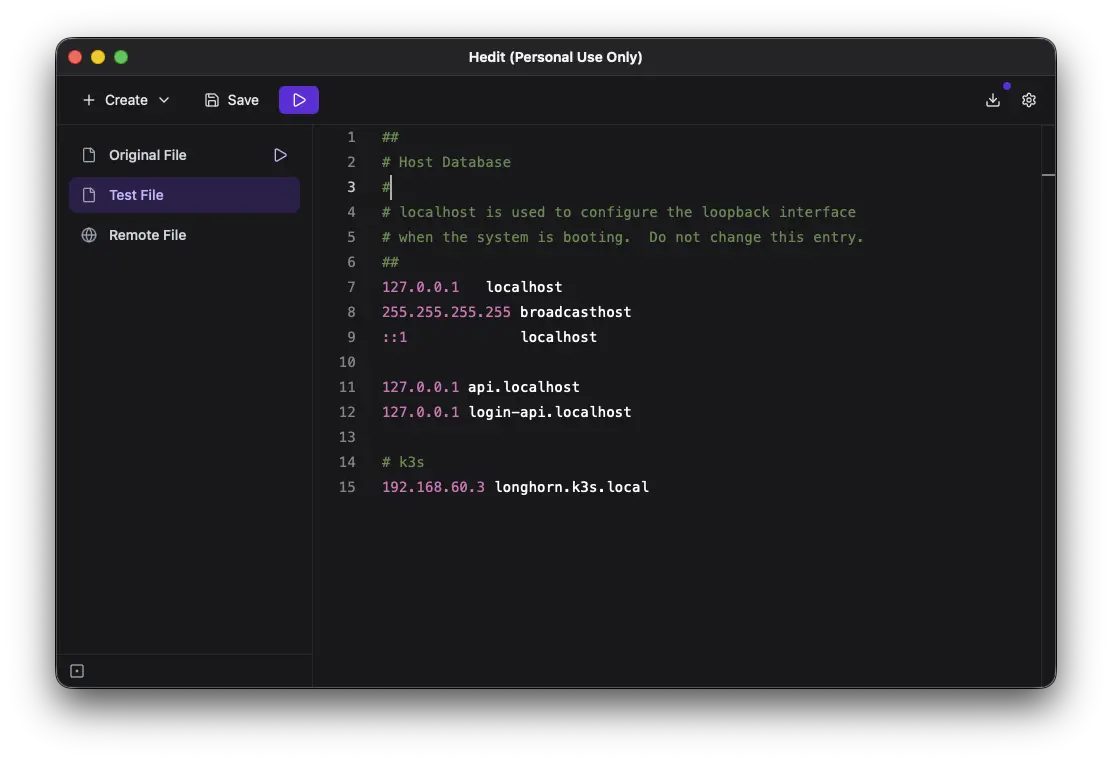
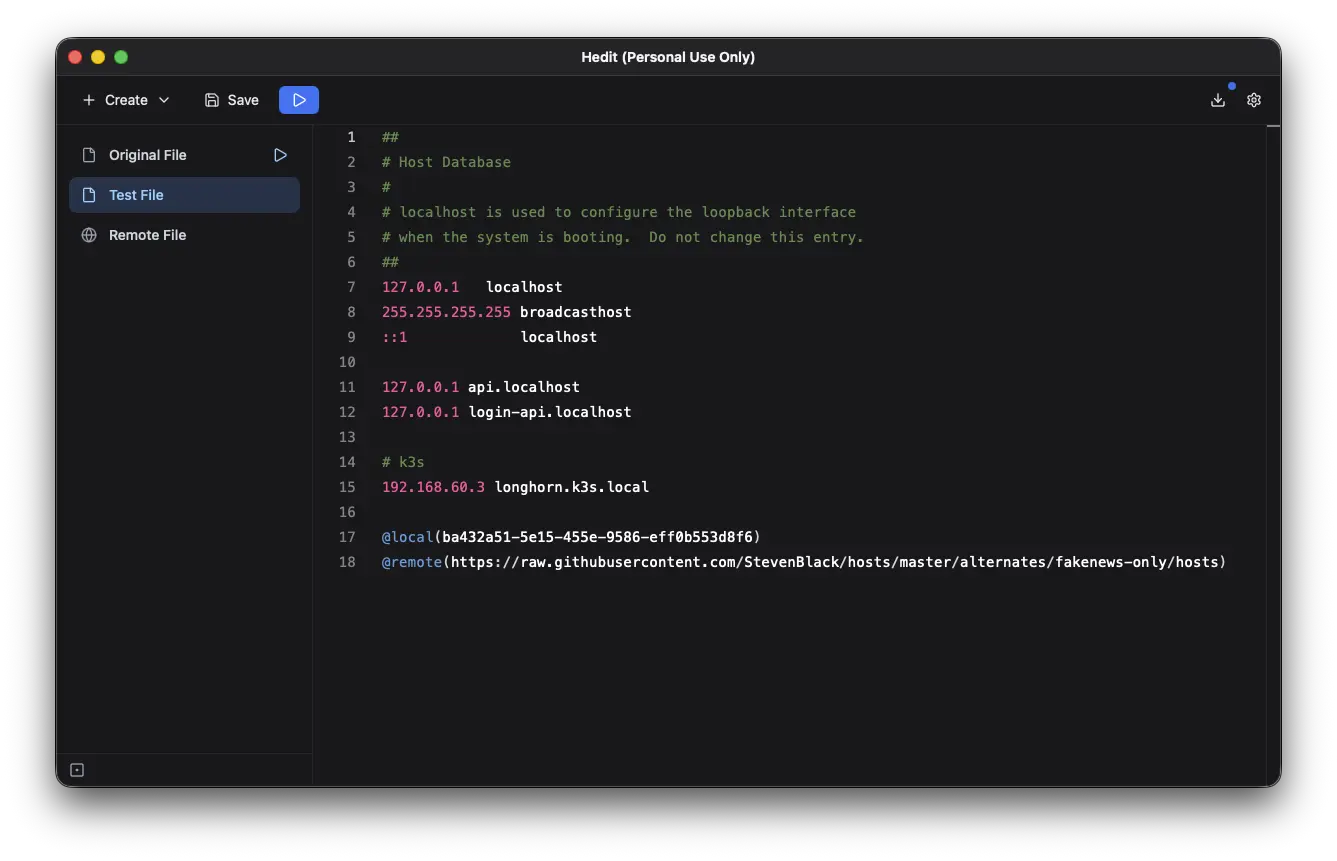
feat: add more docs

Changed region(s): [[0.0306, 0.0302, 0.9784, 0.9659], [0.2446, 0.6037, 0.9173, 0.664], [0.2446, 0.4829, 0.2752, 0.5131]]

diff --git a/app/pages/docs/[...slug].vue b/app/pages/docs/[...slug].vue
@@ -38,7 +38,7 @@ useSeoMeta({
 
     <UPageBody>
       <ContentRenderer
-        v-if="page.body"
+        v-if="page"
         :value="page"
       />
 
@@ -51,7 +51,10 @@ useSeoMeta({
       v-if="page?.body?.toc?.links?.length"
       #right
     >
-      <UContentToc :links="page.body.toc.links" />
+      <UContentToc
+        title="Table of Contents"
+        :links="page.body.toc.links"
+      />
     </template>
   </UPage>
 </template>

diff --git a/content.config.ts b/content.config.ts
@@ -5,7 +5,7 @@ export default defineContentConfig({
   collections: {
     docs: defineCollection(
       asSitemapCollection({
-        source: 'docs/**/*.md',
+        source: 'docs/**/**',
         type: 'page',
       }),
     ),

diff --git a/content/docs/1.getting-started/1.index.md b/content/docs/1.getting-started/1.index.md
@@ -3,17 +3,17 @@ title: Introduction
 description: Welcome to Hedit.
 ---
 
-Hedit is a fast and intuitive hosts file management. Edit, manage, and organize your hosts entries with a beautiful and modern interface.
+Hedit is a fast and intuitive hosts file management.
 
-## 🚧 Work in Progress
-
-**Please Note:** This project is currently under active development. Features may be incomplete, and bugs are expected. Your feedback and contributions are highly welcome!
-
-## ✨ Features
+## Key Features
 
 This application is available on macOS and Linux. Windows support is planned for future releases.
 
 *   **Intuitive UI:** Clean and user-friendly interface for easy hosts file management with Light & Dark mode.
-*   **Fast & Secure:** Built with modern tech for performance and system-level access.
+*   **Fast & Secure:** Built with modern tech for performance and system-level access, with an Open-source codebase.
 *   **Multiple Files:** Manage multiple files and activate the one you need.
+*   **Remote Files:** Add and Sync remote hosts files locally (like StevenBlack/hosts, etc.) from a URL.
+*   **Combo Files:** Create combo files by including dynamically other local files or remote URL's.
+*   **Auto Sync:** Enable automatic remote file synchronization so remote files are always up to date.
+*   **Run in background:** Allow Hedit to run in the background (system tray) so Auto Sync can operate continuously.
 *   **Syntax highlighting:** Edit your hosts file with syntax highlighting and validation.

diff --git a/content/docs/3.syntax/3.remote.md b/content/docs/3.syntax/3.remote.md
@@ -1,0 +1,27 @@
+---
+title: @remote
+description: @remote syntax definition.
+---
+
+## `@remote(url)`
+
+Allows to embed remote Hosts file from a URL.
+
+::field{name="url" type="string" required}
+The complete URL to a hosts file.
+::
+
+::note
+The remote hosts file must be `https` and return a content type of `text/plain`.
+::
+
+### Example usage
+
+```
+# Host Database
+127.0.0.1	localhost
+255.255.255.255	broadcasthost
+::1             localhost
+
+@remote(https://raw.githubusercontent.com/StevenBlack/hosts/master/alternates/fakenews-only/hosts)
+```

diff --git a/content/docs/3.syntax/1.index.md b/content/docs/3.syntax/1.index.md
@@ -1,0 +1,16 @@
+---
+title: Syntax
+description: Create special hosts files.
+---
+
+Using a special syntax you create hosts files that embed dynamically other Hedit files and remote URLs. Those are compiled to a final valid hosts file when saved & activated.
+
+Use the syntax in any Hedit file.
+
+Supported syntax:
+- [`@local`](/docs/syntax/local)
+- [`@remote`](/docs/syntax/remote)
+
+::warning
+Be careful using the special syntax in "remote files", if the auto syncronization is enabled it will override your changes.
+::

diff --git a/content/docs/2.settings/2.remote.md b/content/docs/2.settings/2.remote.md
@@ -1,0 +1,16 @@
+---
+title: Remote Sync
+description: Remote synchronization options.
+---
+
+When Hedit is running, you can enable remote hosts files to update automatically at regular intervals.
+
+Set an interval in hours, starting at each hour (1).
+
+::tip
+Make sure to enable the application to run in background in [General](/docs/settings) for a better experience.
+::
+
+::warning
+Any manual modification will be overwritten if the automatic synchronization is enabled.
+::

diff --git a/content/docs/3.syntax/2.local.md b/content/docs/3.syntax/2.local.md
@@ -1,0 +1,27 @@
+---
+title: @local
+description: @local syntax definition.
+---
+
+## `@local(id)`
+
+Allows to embed another Hedit file.
+
+::field{name="id" type="string" required}
+The ID from a Hedit file.
+::
+
+::tip
+Get the local file ID with right click on the file in the sidebar & "Copy ID".
+::
+
+### Example usage
+
+```
+# Host Database
+127.0.0.1	localhost
+255.255.255.255	broadcasthost
+::1             localhost
+
+@local(ba432a51-5e15-455e-9586-eff0b553d8f6)
+```

diff --git a/content/docs/2.settings/1.index.md b/content/docs/2.settings/1.index.md
@@ -1,0 +1,15 @@
+---
+title: General
+description: General Hedit configuration options.
+---
+
+## Appearance
+Enable or disable Dark Mode. The default is what's defined on the system on first start.
+
+
+## Application Startup
+Enable Hedit to start automatically when logging in/starting your system.
+
+
+## Quit when closing window
+When disabled, allows the application to continue running in the background after closing the main window.

diff --git a/content/docs/1.getting-started/3.combo.md b/content/docs/1.getting-started/3.combo.md
@@ -1,0 +1,17 @@
+---
+title: Combo Files
+description: How to create special combo files.
+---
+
+Hedit allows you to create special hosts files, called Combo Files.
+
+Using a special [Syntax](/docs/syntax) you create hosts files that embed dynamically other Hedit files and remote URLs.
+
+::card
+---
+title: Syntax documentation
+icon: i-lucide-external-link
+to: /docs/syntax
+---
+Checkout the syntax documentation.
+::
